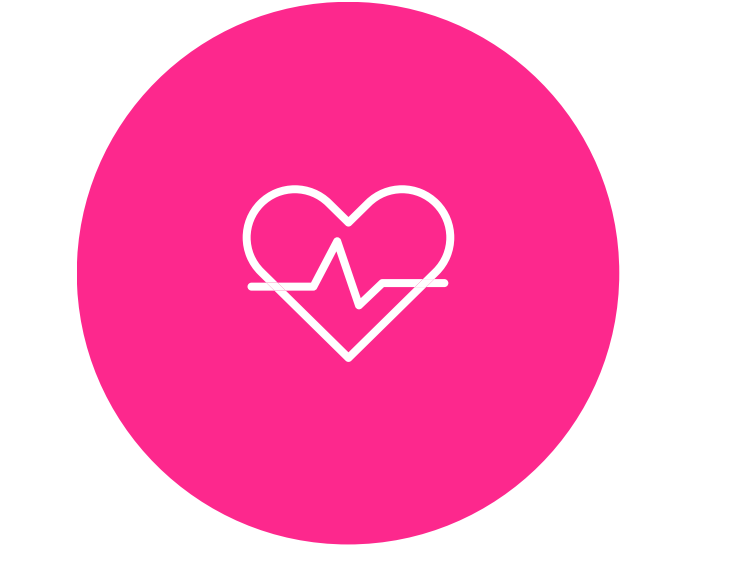
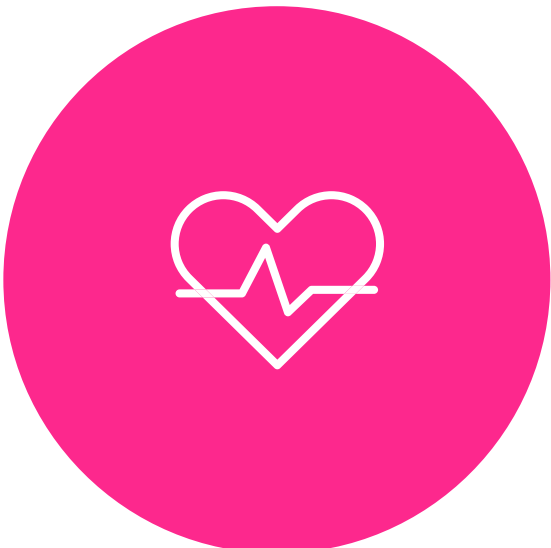
finition desktop version

Changed region(s): [[0.0, 0.0, 1.0, 1.0], [0.3085, 0.3102, 0.7096, 0.6825]]

diff --git a/index.html b/index.html
@@ -55,12 +55,12 @@
 
     <div class="bloc_excercise">
         <h2>Entraînements et exercices</h2>
-        <p>Talk about this product's most important feature or service. Highlighting the most popular one works, too! Talk about this product's most important feature or service. Highlighting the most popular one works, too! </p>
+        <p>Lorem ipsum dolor sit amet consectetur adipisicing elit. Nam quis, nihil vitae autem in maiores fugit incidunt quasi laborum, reprehenderit et? Sapiente, aspernatur doloremque. Illum expedita architecto necessitatibus nam, vero eveniet dolore quas eligendi distinctio cum eius delectus ab culpa.</p>
         <button>LEARN MORE</button>
     </div>
 
     <div class="bloc_advice">
-        <img src="" alt="" srcset="">
+        <img src="img/Fitness Fitness Website in Dark Brown Neon Pink Gradients Style.png" alt="" srcset="">
         <div class="group">
             <h2> Conseils de bien-être</h2>
             <p>
@@ -72,19 +72,22 @@
     </div>
 
     <div class="bloc_comment">
+        <h2>Commentaire</h2>
         <div class="blocs">
-            <p>Les témoignages sont de courtes citations de personnes qui aiment votre marque. C'est un excellent moyen de convaincre les clients d'essayer vos services.</p>
-            <h5>Frankie, Virtual Assistant</h5>
-        </div>
+            <div class="bloc">
+                <p>Les témoignages sont de courtes citations de personnes qui aiment votre marque. C'est un excellent moyen de convaincre les clients d'essayer vos services.</p>
+                <h5>Frankie, Virtual Assistant</h5>
+            </div>
 
-        <div class="blocs">
-            <p>Les témoignages sont de courtes citations de personnes qui aiment votre marque. C'est un excellent moyen de convaincre les clients d'essayer vos services.</p>
-            <h5>Frankie, Virtual Assistant</h5>
-        </div>
+            <div class="bloc">
+                <p>Les témoignages sont de courtes citations de personnes qui aiment votre marque. C'est un excellent moyen de convaincre les clients d'essayer vos services.</p>
+                <h5>Frankie, Virtual Assistant</h5>
+            </div>
 
-        <div class="blocs">
-            <p>Les témoignages sont de courtes citations de personnes qui aiment votre marque. C'est un excellent moyen de convaincre les clients d'essayer vos services.</p>
-            <h5>Frankie, Virtual Assistant</h5>
+            <div class="bloc">
+                <p>Les témoignages sont de courtes citations de personnes qui aiment votre marque. C'est un excellent moyen de convaincre les clients d'essayer vos services.</p>
+                <h5>Frankie, Virtual Assistant</h5>
+            </div>
         </div>
     </div>
 

diff --git a/css/beauty.css b/css/beauty.css
@@ -115,7 +115,143 @@ h1, h2, h5
 
 .bloc_key .bloc_img .fac_one img
 {
-    width: 40%;
+    width: 150px;
     height: 150px;
+    margin-left: 10%;
 }
 
+.bloc_key .bloc_img .fac_one p
+{
+    width: 200px;
+    height: 100px;
+    border: solid 1px black;
+    margin: 2%;
+    padding: 2%;
+    border-radius: 10px;
+    text-align: center;
+}
+
+.bloc_excercise p, .bloc_about h2
+{
+    color: #FD288D;
+    background: transparent;
+    font-weight: bolder;
+    margin: 5%;
+
+}
+
+
+.bloc_excercise 
+{
+   align-content: center;
+   background: url(../img/Highlights.png) no-repeat center ;
+   background-size: cover;
+   height: 80vh;
+   padding: 5%;
+}
+.bloc_excercise h2
+{
+    margin-top: 10%;
+    text-align: center;
+    font-size: 3rem;
+}
+
+.bloc_excercise p
+{
+    text-align: center;
+    font-size: 1.2rem;
+}
+
+.bloc_excercise button
+{
+    background: #FD288D;
+    color: whitesmoke;
+    width: 30%;
+    height: 50px;
+    margin-left: 35%;
+    border: 1px transparent;
+    font-weight: bold;
+    border-radius: 20px;
+}
+
+.bloc_advice
+{
+    display: flex;
+    background-color: white;
+    justify-content: space-around;
+}
+
+.bloc_advice .group
+{
+    display: flex;
+    background-color: black;
+    border-radius: 20px;
+    flex-direction: column;
+    justify-content: space-around;
+    width: 50%;
+    margin: 5%;
+    text-align: center;
+    color: white;
+}
+
+.bloc_advice button
+{
+    background: #FD288D;
+    color: whitesmoke;
+    width: 50%;
+    height: 50px;
+    margin-left:30%;
+    border: 1px transparent;
+    font-weight: bold;
+    border-radius: 20px;
+}
+
+.bloc_comment
+{
+    margin: 7%;
+    padding: 5%;
+    background-size: cover;
+    height: 70vh;
+    background: white;
+    
+}
+
+.bloc_comment h2
+{
+    text-align: center;
+    font-size: 3rem;
+}
+
+.bloc_comment .blocs
+{
+    display: flex;
+    justify-content: space-around;
+    height: 300px;
+    margin: 2%;
+    padding: 1%;
+    border-radius: 10px;
+    text-align: center;
+}
+
+.bloc_comment .blocs .bloc 
+{
+    border: solid 1px black;
+    margin: 5%;
+    width: 40%;
+    padding: 2%;
+    border-radius: 10px;
+}
+
+.bloc_comment .blocs .bloc p
+{
+    margin-bottom: 5%;
+}
+
+.last_bloc
+{
+    align-content: center;
+   background: url(../img/Contact.png) no-repeat center ;
+   background-size: cover;
+   height: 80vh;
+   padding: 5%;
+}
